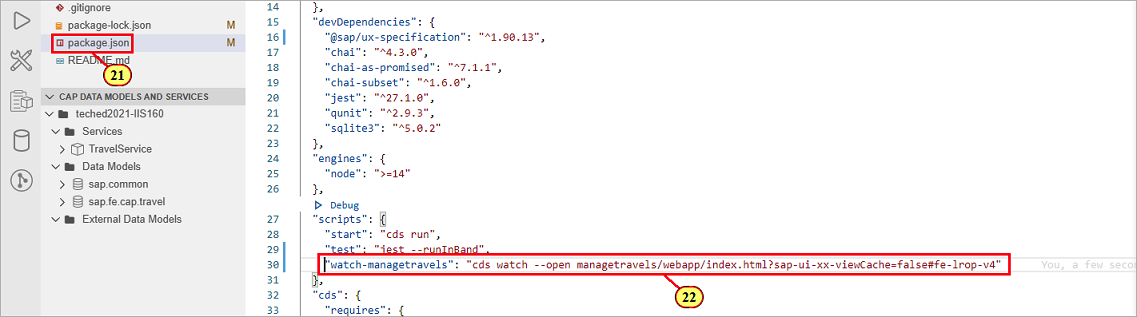
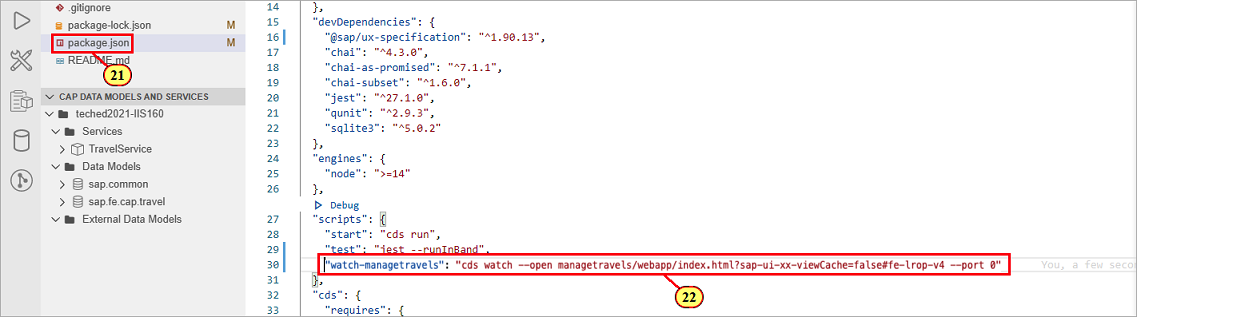
exercises

diff --git a/exercises/ex1/README.md b/exercises/ex1/README.md
@@ -115,7 +115,7 @@ In **exercises 4 ff.**, we will extend the app based on **xml fragments**. We ne
 Enter the following script:
 
 ```js
-    "watch-managetravels": "cds watch --open managetravels/webapp/index.html?sap-ui-xx-viewCache=false#fe-lrop-v4" 
+    "watch-managetravels": "cds watch --open managetravels/webapp/index.html?sap-ui-xx-viewCache=false#fe-lrop-v4 --port 0" 
 ```
 
 ![mydevspace - SAP Business Application Studio - Google Chrome](images/img_017.png "mydevspace - SAP Business Application Studio - Google Chrome")
